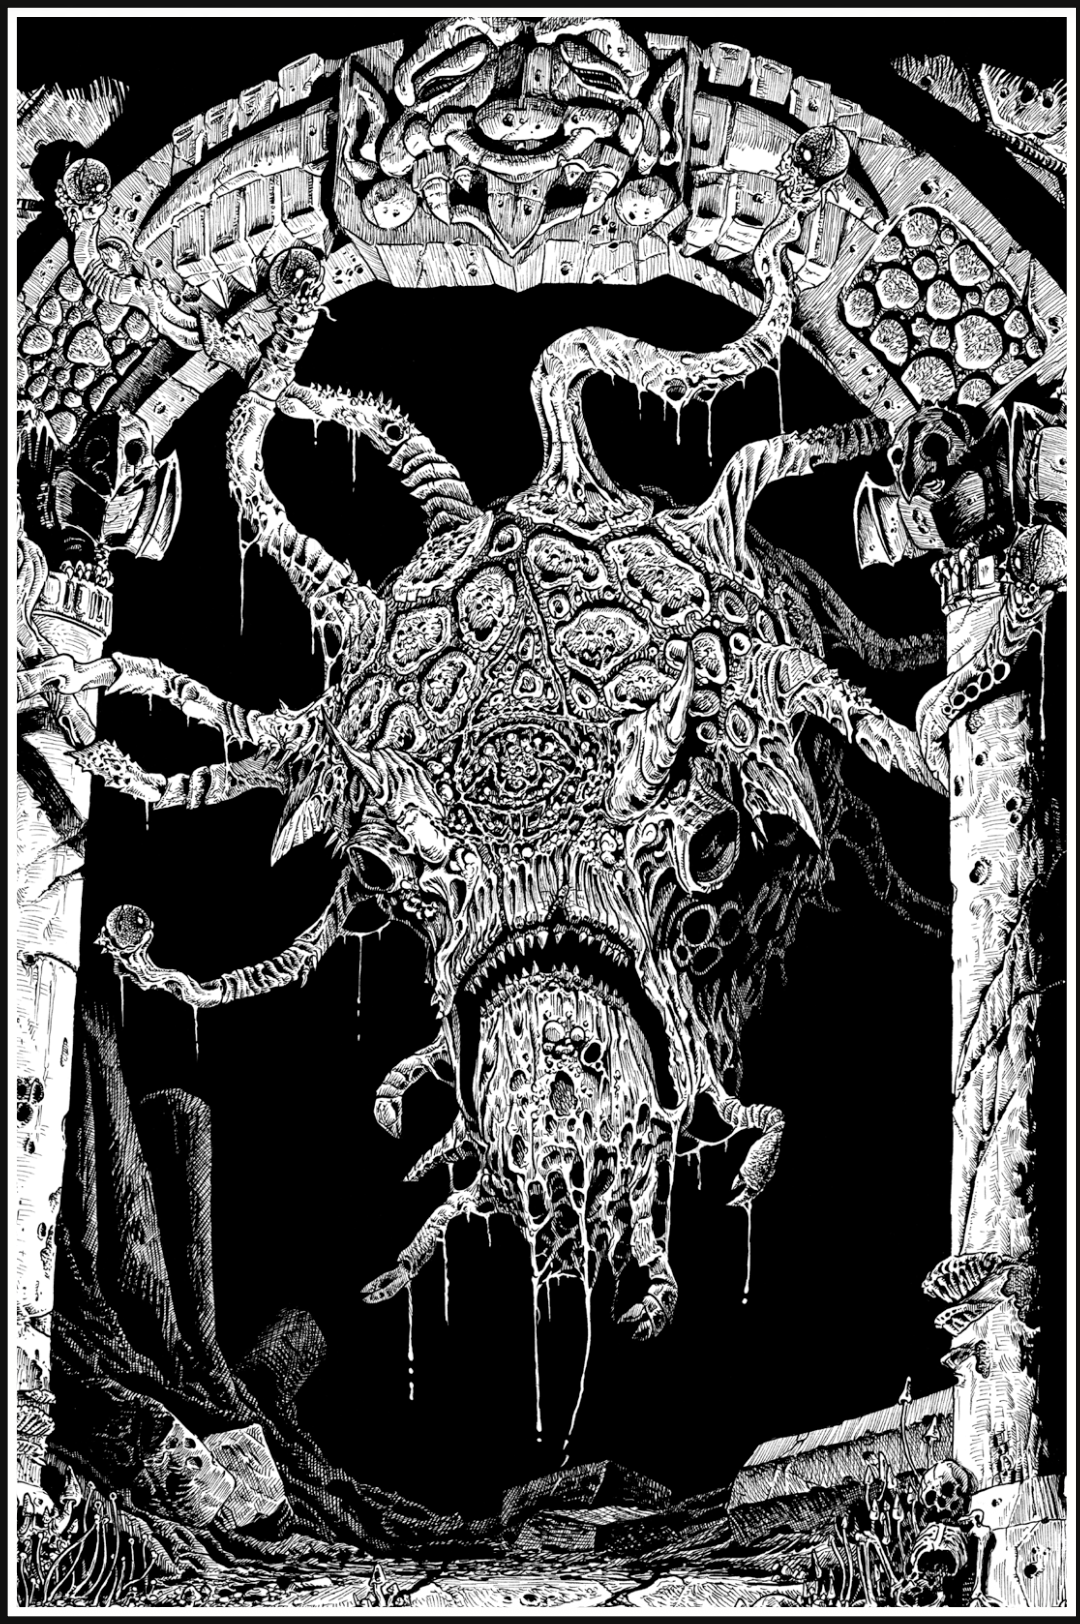
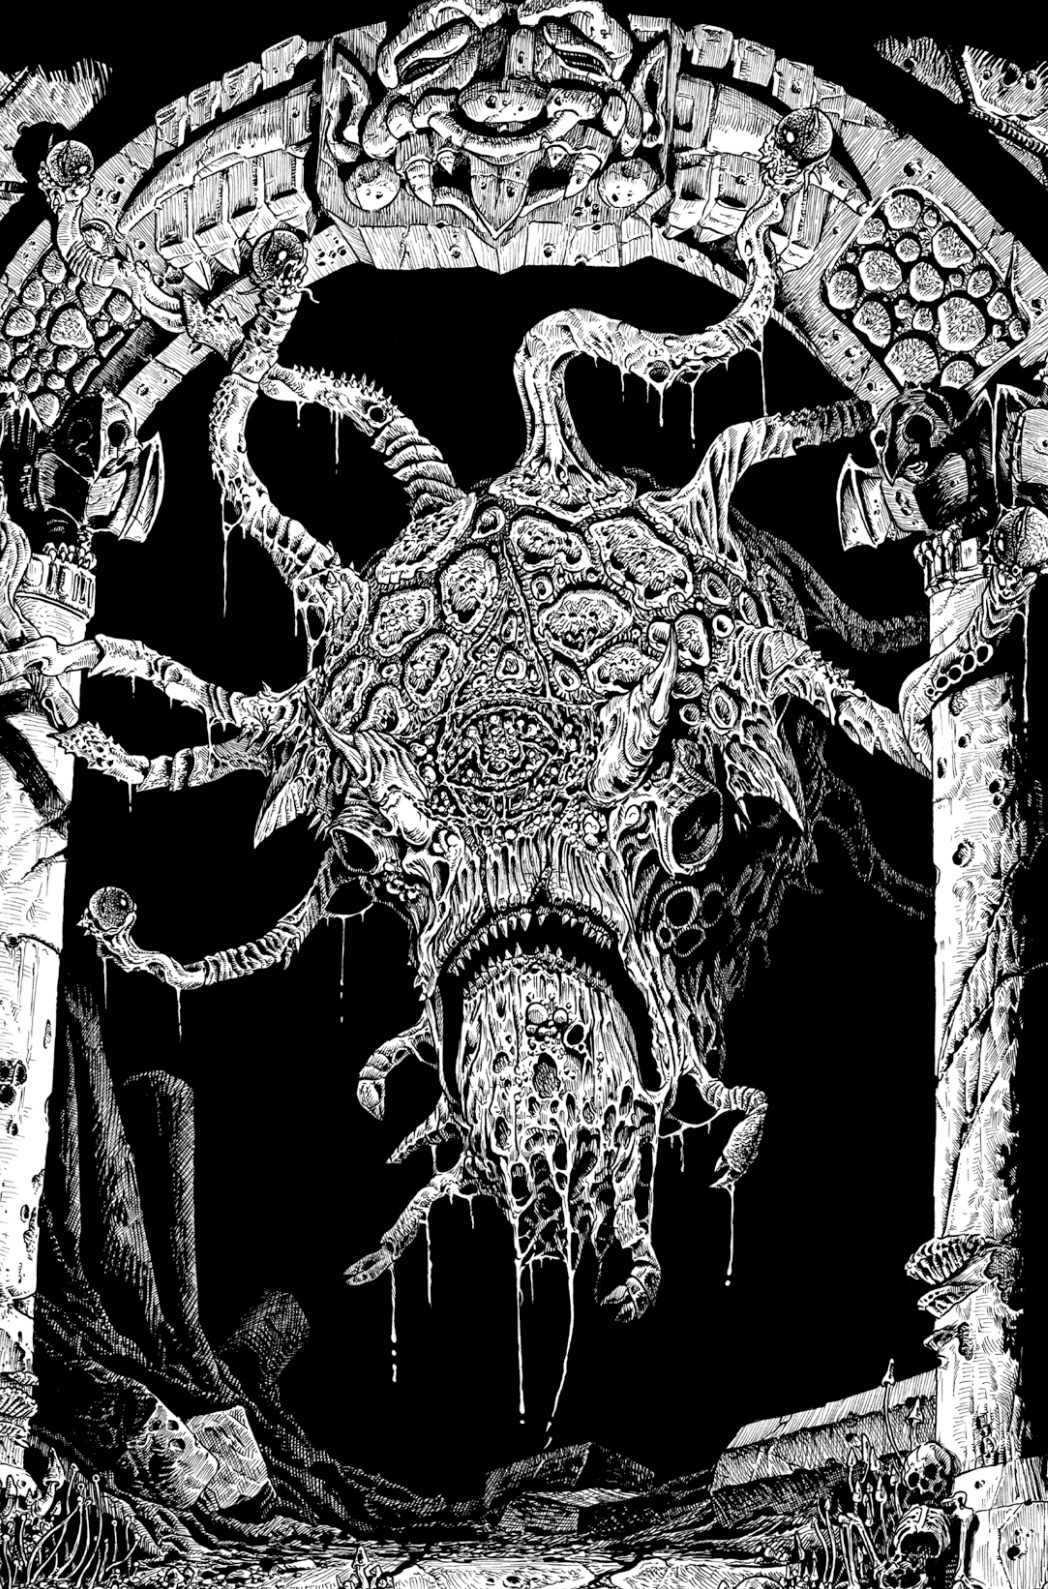
Update cover image, optimize to WebP, fix background and nav styling
- Replace cover.png (910K) with cover.webp at q85 (454K, 50% smaller)
- Update all cover.png references to cover.webp
- Fix home page background: absolute → fixed so image stays while content scrolls
- Fix UserNav: add bordered pill with dark backdrop for legibility over cover image

diff --git a/src/components/UserNav.tsx b/src/components/UserNav.tsx
@@ -13,7 +13,7 @@ export function UserNav() {
     return (
       <a
         href="/login"
-        className="rounded border border-stone-700 bg-stone-900/80 px-3 py-1.5 text-xs font-medium text-stone-300 hover:border-stone-500 hover:text-stone-100 transition-colors"
+        className="rounded border border-stone-600 bg-stone-900/90 px-3 py-1.5 text-xs font-medium text-stone-200 hover:border-stone-400 hover:text-white transition-colors backdrop-blur-sm"
       >
         Sign in
       </a>
@@ -26,11 +26,14 @@ export function UserNav() {
   }
 
   return (
-    <div className="flex items-center gap-3 text-xs text-stone-500">
-      <span className="hidden sm:block truncate max-w-[160px]">{session.user.name || session.user.email}</span>
+    <div className="flex items-center gap-2 rounded border border-stone-600 bg-stone-900/90 px-3 py-1.5 text-xs backdrop-blur-sm">
+      <span className="hidden sm:block truncate max-w-[160px] text-stone-200 font-medium">
+        {session.user.name || session.user.email}
+      </span>
+      <span className="hidden sm:block text-stone-600">·</span>
       <button
         onClick={handleSignOut}
-        className="hover:text-stone-300 transition-colors cursor-pointer"
+        className="text-stone-400 hover:text-stone-100 transition-colors cursor-pointer"
       >
         Sign out
       </button>

diff --git a/src/app/page.tsx b/src/app/page.tsx
@@ -116,11 +116,11 @@ export default function Home() {
   return (
     <div className="relative flex min-h-screen flex-col items-center justify-center text-center">
       {/* Background */}
-      <div className="absolute inset-0 bg-[url('/cover.png')] bg-cover bg-center" />
-      <div className="absolute inset-0 bg-stone-950/80" />
+      <div className="fixed inset-0 bg-[url('/cover.webp')] bg-cover bg-center" />
+      <div className="fixed inset-0 bg-stone-950/80" />
 
       {/* User nav */}
-      <div className="absolute top-4 right-4 z-20">
+      <div className="fixed top-4 right-4 z-20">
         <UserNav />
       </div>
 

diff --git a/src/app/login/page.tsx b/src/app/login/page.tsx
@@ -139,7 +139,7 @@ function LoginForm() {
 export default function LoginPage() {
   return (
     <div className="relative flex min-h-screen flex-col items-center justify-center">
-      <div className="absolute inset-0 bg-[url('/cover.png')] bg-cover bg-center" />
+      <div className="absolute inset-0 bg-[url('/cover.webp')] bg-cover bg-center" />
       <div className="absolute inset-0 bg-stone-950/85" />
 
       <div className="relative z-10 w-full max-w-sm px-4">

diff --git a/src/components/game/DeathScreen.tsx b/src/components/game/DeathScreen.tsx
@@ -70,7 +70,7 @@ export function DeathScreen({
     >
       {/* Background image — fixed so it doesn't scroll with content */}
       <div className="fixed inset-0">
-        <Image src="/cover.png" alt="Death screen" fill className="object-cover" priority />
+        <Image src="/cover.webp" alt="Death screen" fill className="object-cover" priority />
       </div>
 
       {/* Dark overlay — fixed too */}

diff --git a/src/app/adventures/[collectionId]/[adventureId]/page.tsx b/src/app/adventures/[collectionId]/[adventureId]/page.tsx
@@ -94,7 +94,7 @@ export default function AdventureDetailPage() {
   return (
     <div className="relative min-h-screen text-stone-100">
       {/* Background */}
-      <div className="fixed inset-0 bg-[url('/cover.png')] bg-cover bg-center" />
+      <div className="fixed inset-0 bg-[url('/cover.webp')] bg-cover bg-center" />
       <div className="fixed inset-0 bg-stone-950/85" />
 
       {/* Content */}

diff --git a/src/app/adventures/page.tsx b/src/app/adventures/page.tsx
@@ -19,7 +19,7 @@ export default function AdventuresPage() {
   return (
     <div className="relative min-h-screen text-stone-100">
       {/* Background */}
-      <div className="fixed inset-0 bg-[url('/cover.png')] bg-cover bg-center" />
+      <div className="fixed inset-0 bg-[url('/cover.webp')] bg-cover bg-center" />
       <div className="fixed inset-0 bg-stone-950/85" />
 
       {/* User nav */}
